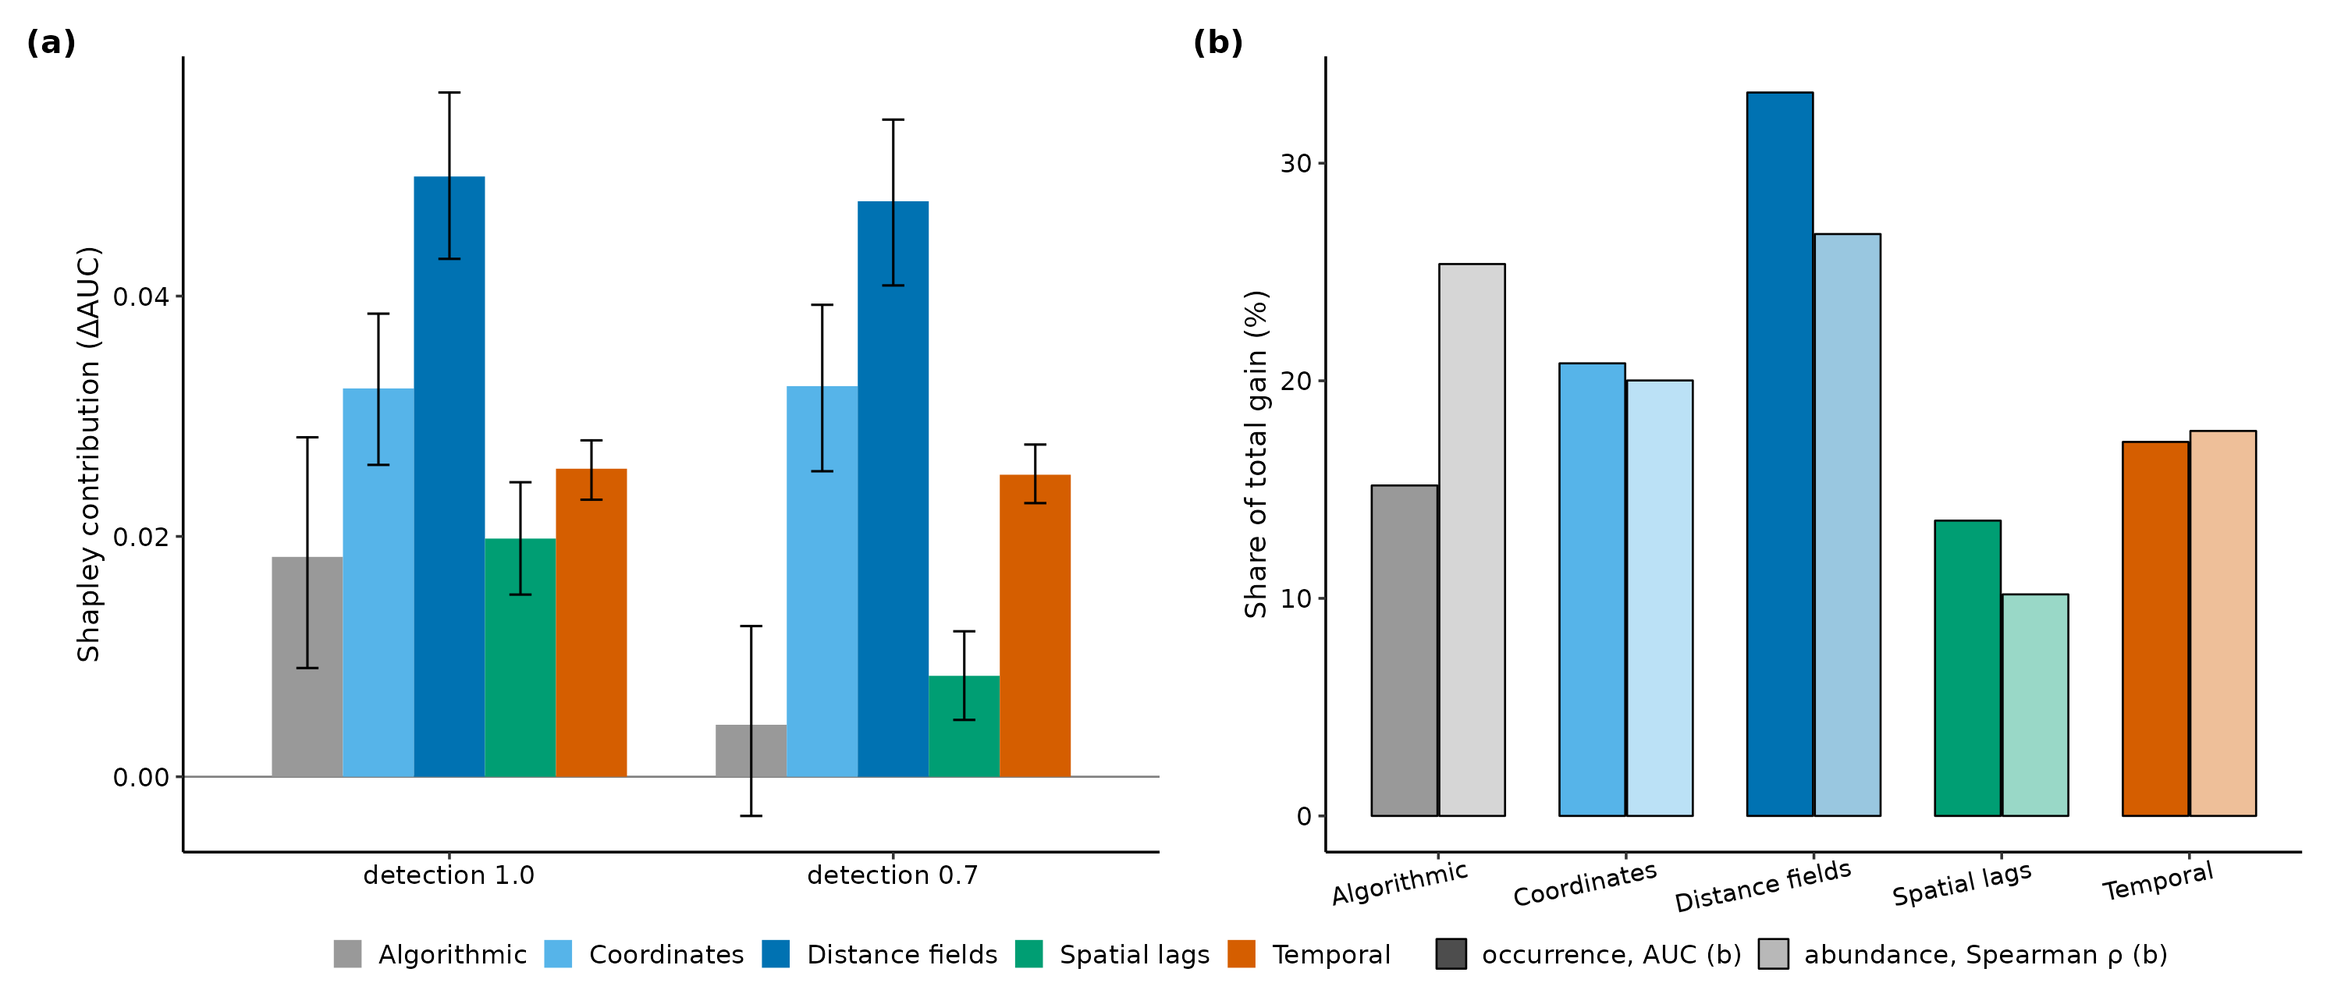
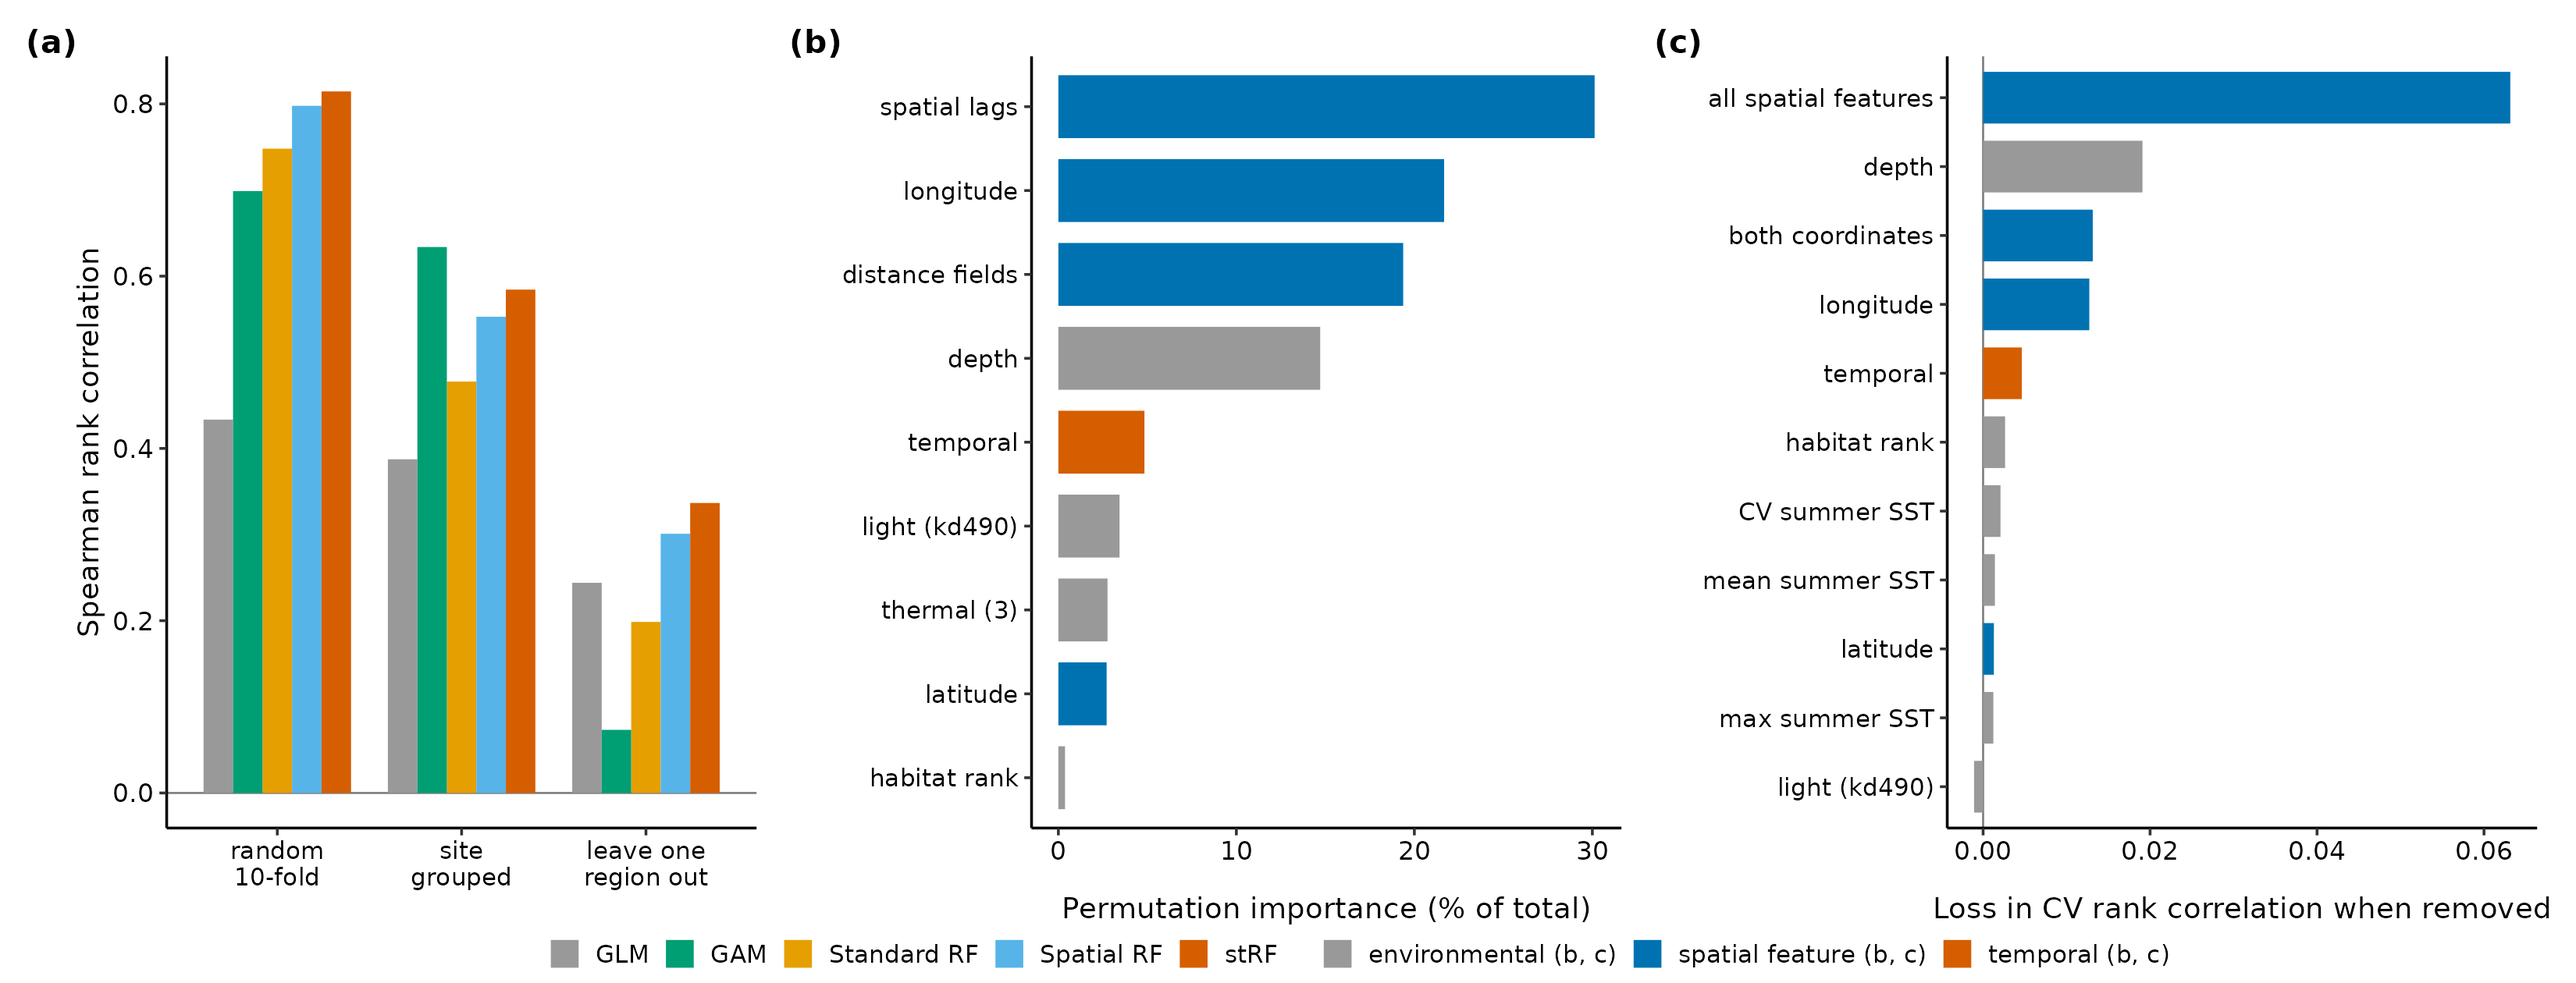
Renumber main text figures 1 to 7 (the schematic is Supplement Figure S1); Figure 2 panels (b) and (c) without zero lines

diff --git a/README.md b/README.md
@@ -44,7 +44,7 @@ analysis/               scripts that produce every number in the article, in ord
   02_decompose.R        Shapley tables T1 to T7 with cluster bootstrap
   02b_temporal_coverage.R  temporal value against nearest site distance (T8); clustered design random fill
   03_gam_core.R         spatial GAM on the Stage A datasets
-  04_core_benchmark_table.R  five method core benchmark (Figure 3, Table 2)
+  04_core_benchmark_table.R  five method core benchmark (Figure 2, Table 2)
   05_si_figures_data.R  worlds, tuning sensitivity, calibration (S2 to S5)
   06_s6_sdmtmb.R        sdmTMB comparator (S6)
   07_s6_pooled.R        stRF on pooled timesteps (S6)
@@ -52,13 +52,13 @@ analysis/               scripts that produce every number in the article, in ord
 results/                outputs of the scripts above, as reported
   ablation_expanded.csv       3,774 datasets x (GLM + 20 coalitions)
   expanded_T1..T8_*.csv       decomposition tables (T6 to T8 resolve the temporal block by n, design and coverage)
-  temporal_coverage_T5.csv    per dataset nearest site distance and Shapley values behind Figure 4c
+  temporal_coverage_T5.csv    per dataset nearest site distance and Shapley values behind Figure 3c
   clustered_legacy_random_fill.csv  random fill of the 3.0.x clustered generator, kept for the record
-  core_five_methods.csv       Figure 3 / Table 2 data
+  core_five_methods.csv       Figure 2 / Table 2 data
   si/                         gam_core, figS2..S4 data, tableS1/S5/S6
   case_study/                 cv_regimes, importance, corridor, hovmoller, rolling_origin, intervals, meta.json
 figures/
-  main/Figure2..8.png   article figures (Figure 1 is a schematic drawn outside R)
+  main/Figure1..7.png   article figures (the Supplement's Figure S1 is the schematic)
   si/FigureS1..S9.png   Supplement figures
   scripts/              ggplot2 scripts that draw the figures from results/ (figstyle.R holds the palette)
 data/
@@ -125,7 +125,7 @@ Then:
 Rscript 02_decompose.R            # tables T1 to T7            (minutes)
 Rscript 02b_temporal_coverage.R   # table T8, coverage per dataset (~5 min)
 Rscript 03_gam_core.R             # spatial GAM                 (~1 h)
-Rscript 04_core_benchmark_table.R # Figure 3 data, Table 2 columns
+Rscript 04_core_benchmark_table.R # Figure 2 data, Table 2 columns
 Rscript 05_si_figures_data.R      # S2 to S5 data              (~30 min)
 Rscript 07_s6_pooled.R            # S6 pooled stRF             (minutes)
 Rscript 06_s6_sdmtmb.R            # S6 sdmTMB (needs sdmTMB)   (~2 h)
@@ -144,9 +144,9 @@ Rscript 08_case_study.R           # ~5 min on one core
 
 ```bash
 cd ../figures/scripts
-Rscript make_figures_2_5.R; Rscript make_figure_3.R; Rscript make_figure_4.R
+Rscript make_figures_1_4.R; Rscript make_figure_2.R; Rscript make_figure_3.R
 Rscript make_figures_S2_S3_S4.R; Rscript make_figure_S8.R; Rscript make_figure_S1.R; Rscript make_figure_S9.R
-Rscript make_figures_case.R       # Figures 6 to 8 and S5 to S7
+Rscript make_figures_case.R       # Figures 5 to 7 and S5 to S7
 ```
 
 Each script reads only `results/` (and `data/coast_wa.json` for the maps) and

diff --git a/NEWS.md b/NEWS.md
@@ -20,9 +20,9 @@ that revision remains in the history before 1.0.0.)
   the 1.0.0 archive exactly. `results/` and all affected figures and tables are
   updated. Six clustered draws with a degenerate training response were
   discarded (3,774 datasets, 79,254 fits).
-* Figure 4 now resolves the temporal block by span, sample size and spatial
+* Figure 3 now resolves the temporal block by span, sample size and spatial
   coverage (tables T6 to T8, `02b_temporal_coverage.R`); the former pooled figure
-  is Supplement Figure S9. Figure 3 shows the clustered and stratified design
+  is Supplement Figure S9. Figure 2 shows the clustered and stratified design
   effects in separate panels.
 * `01_ablation_expanded.R` and `03_gam_core.R` accept `ABL_DESIGNS` to rerun a
   subset of designs; `05_si_figures_data.R`, `06_s6_sdmtmb.R` and `07_s6_pooled.R`
